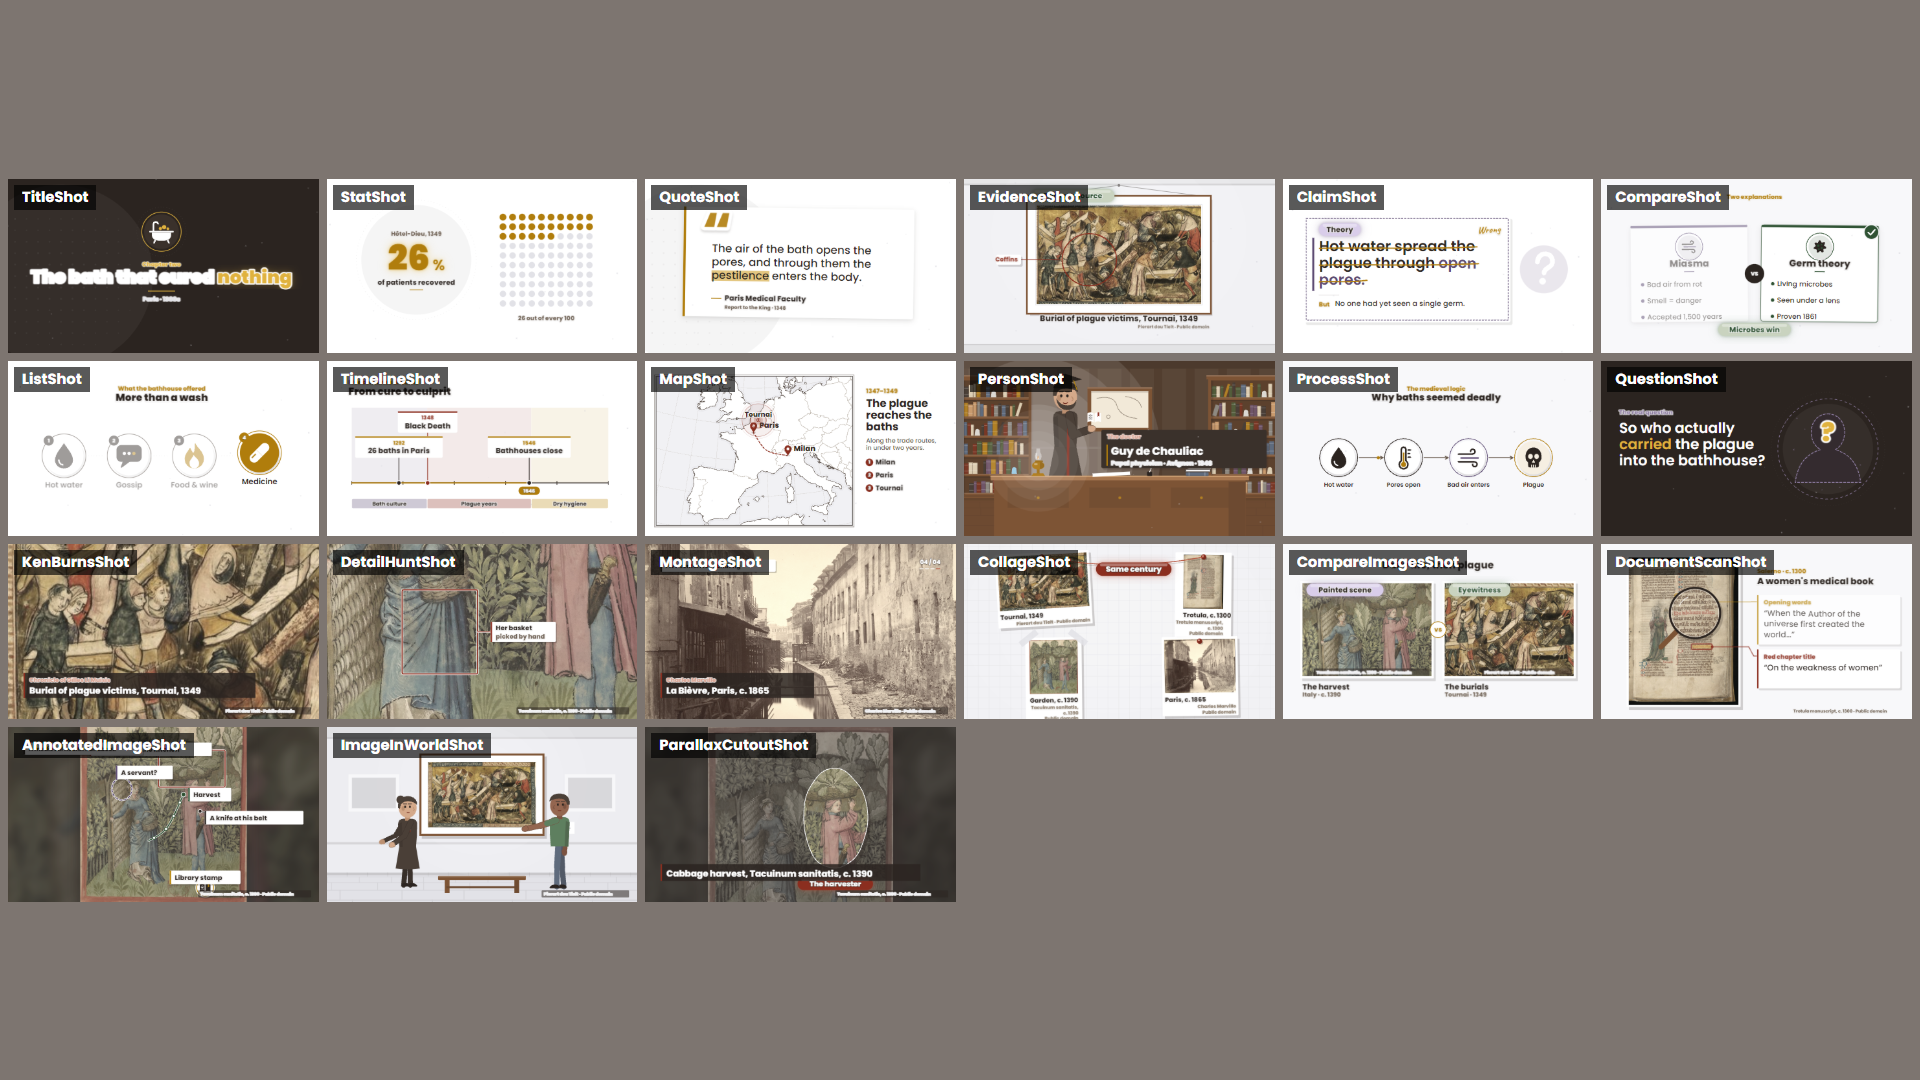
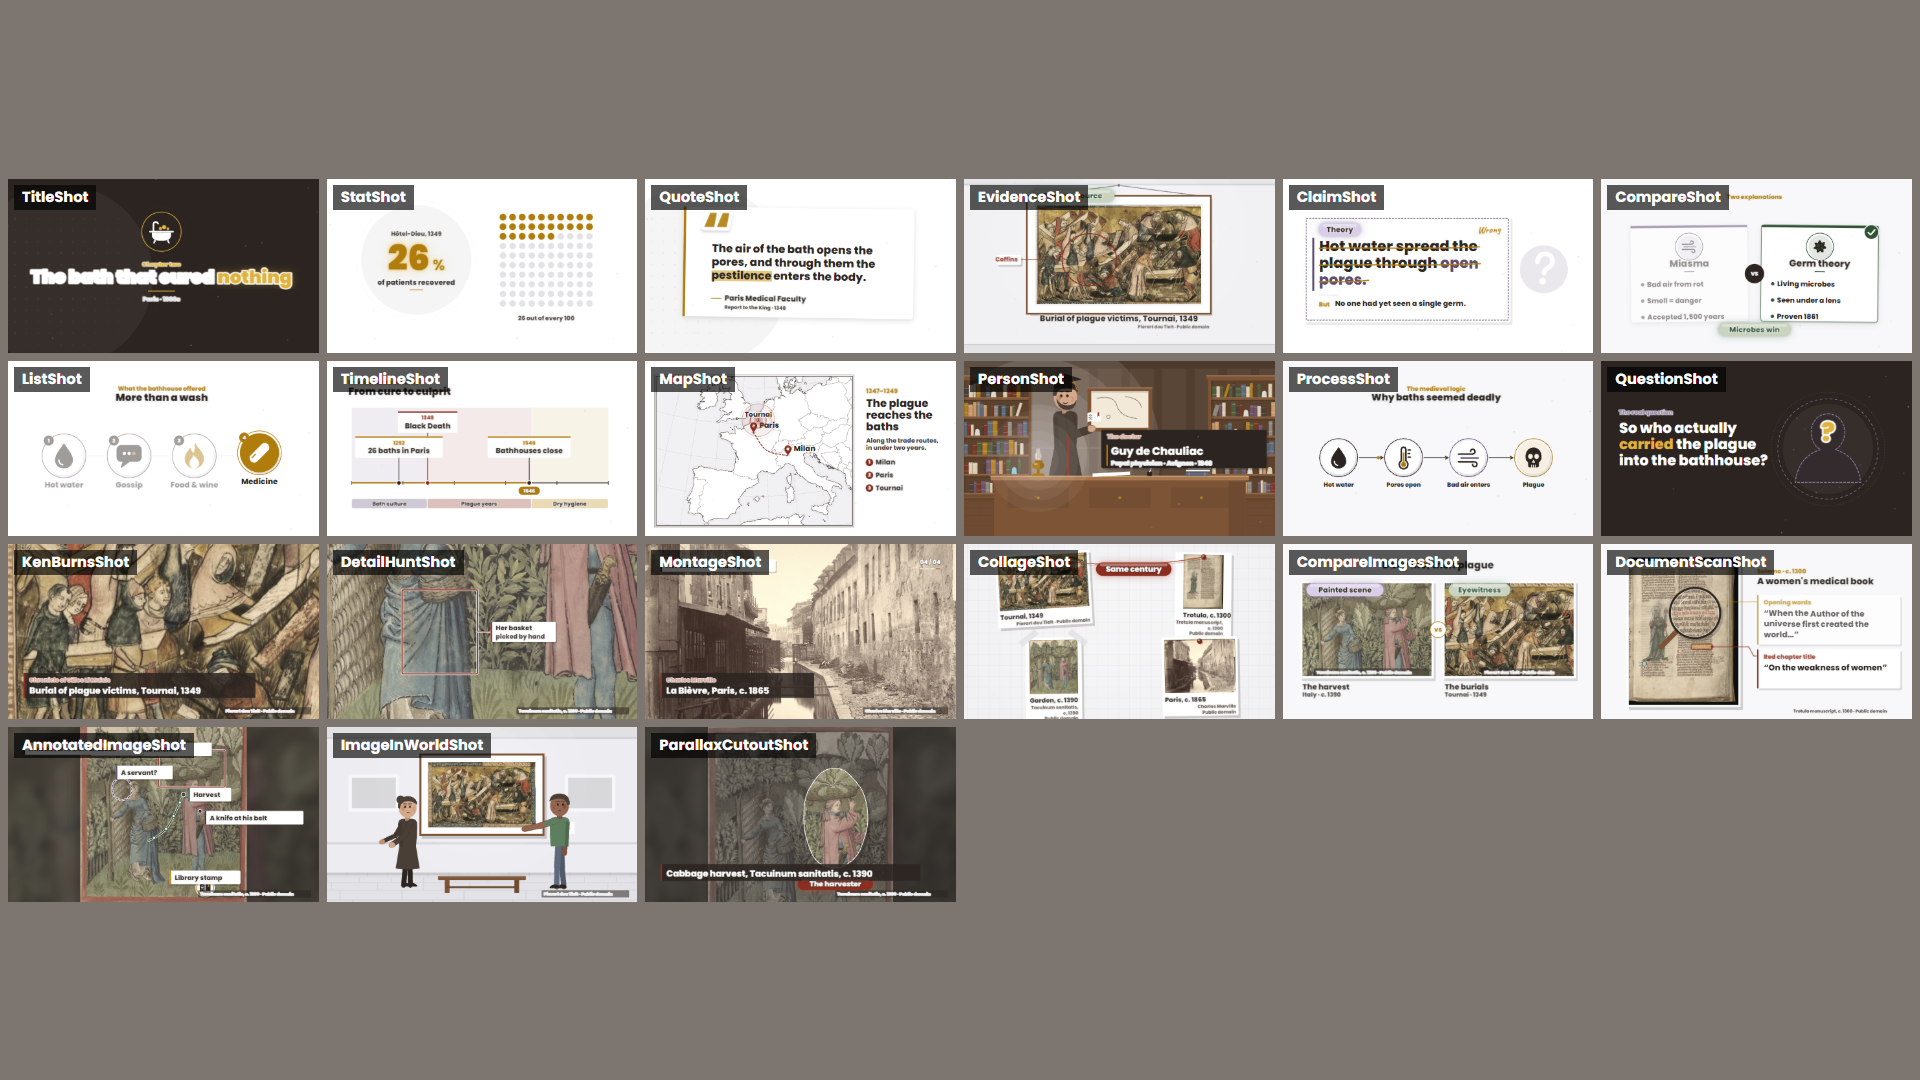
Bold black body text everywhere (foreignObject text 800, darker ink greys), thicker chart/diagram lines

diff --git a/src/kit/templates.tsx b/src/kit/templates.tsx
@@ -79,7 +79,7 @@ export const Backdrop: React.FC<{tone?: Tone; motif?: Motif; seed?: number; t?: 
         {[300, 450, 600, 750].map((r, i) => (
           <circle key={i} cx={cx} cy={600} r={r} stroke={i === 1 ? P.line : P.motif} strokeWidth={i === 1 ? 2 : 26} opacity={i === 1 ? 0.45 : 1} />
         ))}
-        <circle cx={cx} cy={600} r={530} stroke={P.line} strokeWidth={3} strokeDasharray="4 22" strokeLinecap="round" opacity={0.6} transform={`rotate(${t * 2.5 * s} ${cx} 600)`} />
+        <circle cx={cx} cy={600} r={530} stroke={P.line} strokeWidth={5} strokeDasharray="4 22" strokeLinecap="round" opacity={0.6} transform={`rotate(${t * 2.5 * s} ${cx} 600)`} />
       </g>
     );
   if (m === 'band') {
@@ -88,14 +88,14 @@ export const Backdrop: React.FC<{tone?: Tone; motif?: Motif; seed?: number; t?: 
     return (
       <g>
         <path d={`M${x0} -200 L${x0 + w} -200 L${x0 + w - 640 * s} 1300 L${x0 - 640 * s} 1300 Z`} fill={P.motif} />
-        <path d={`M${x0 + w + 60 * s} -200 L${x0 + w + 60 * s - 640 * s} 1300`} stroke={P.line} strokeWidth={3} opacity={0.5} />
+        <path d={`M${x0 + w + 60 * s} -200 L${x0 + w + 60 * s - 640 * s} 1300`} stroke={P.line} strokeWidth={5} opacity={0.5} />
       </g>
     );
   }
   if (m === 'frame')
     return (
       <g fill="none" stroke={P.line}>
-        <rect x={52} y={52} width={1816} height={976} strokeWidth={2} opacity={0.55} />
+        <rect x={52} y={52} width={1816} height={976} strokeWidth={4} opacity={0.55} />
         <rect x={64} y={64} width={1792} height={952} strokeWidth={1.5} opacity={0.3} />
         {[
           [52, 52],
@@ -544,8 +544,8 @@ export const QuoteShot: React.FC<
           <g transform={`translate(0 ${(1 - ease.outQuint(ramp(t, t0 - 0.3, t0 + 0.6))) * 60})`}>
             <rect x={400 + 16} y={120 + 20} width={1120} height={900} rx={6} fill={C.ink} opacity={0.16} />
             <path d="M400 128 Q680 112 960 124 Q1240 134 1520 118 L1516 1020 Q1240 1032 960 1018 Q680 1006 404 1024 Z" fill={C.bone} />
-            <rect x={436} y={156} width={1048} height={840} fill="none" stroke={C.boneShade} strokeWidth={3} rx={4} />
-            <line x1={520} x2={520} y1={160} y2={990} stroke={C.oxTint} strokeWidth={3} opacity={0.8} />
+            <rect x={436} y={156} width={1048} height={840} fill="none" stroke={C.boneShade} strokeWidth={5} rx={4} />
+            <line x1={520} x2={520} y1={160} y2={990} stroke={C.oxTint} strokeWidth={5} opacity={0.8} />
             {docTitle && (
               <text x={960} y={236} textAnchor="middle" fontFamily={FONT_SANS} fontWeight={700} fontSize={30} letterSpacing={4} fill={C.inkMute}>
                 {docTitle}
@@ -674,7 +674,7 @@ export const EvidenceShot: React.FC<
           <rect x={-300} y={1010} width={2520} height={400} fill={mixHex(wall, C.ink, P.dark ? 0.3 : 0.07)} />
           <rect x={-300} y={1004} width={2520} height={8} fill={mixHex(wall, C.ink, P.dark ? 0.45 : 0.16)} />
           <LightPool x={px} y={py - 120} r={760} sy={0.85} strength={P.dark ? 1.6 : 1.1} />
-          <path d={`M${px} 54 L${fl + 80} ${ft + 4} M${px} 54 L${fr - 80} ${ft + 4}`} stroke={mixHex(wall, C.ink, 0.5)} strokeWidth={3} fill="none" opacity={ramp(t, t0 - 0.3, t0 + 0.2)} />
+          <path d={`M${px} 54 L${fl + 80} ${ft + 4} M${px} 54 L${fr - 80} ${ft + 4}`} stroke={mixHex(wall, C.ink, 0.5)} strokeWidth={5} fill="none" opacity={ramp(t, t0 - 0.3, t0 + 0.2)} />
           <circle cx={px} cy={54} r={8} fill={mixHex(wall, C.ink, 0.55)} />
         </g>
       }
@@ -748,7 +748,7 @@ export const ClaimShot: React.FC<
         {dashed ? (
           <DashedOutline d={`M${fr.x + 14} ${fr.y + 14} H${fr.x + fr.w - 14} V${fr.y + fr.h - 14} H${fr.x + 14} Z`} p={1} color={col} width={4} />
         ) : (
-          <rect x={fr.x + 14} y={fr.y + 14} width={fr.w - 28} height={fr.h - 28} rx={6} fill="none" stroke={col} strokeWidth={3} opacity={0.55} />
+          <rect x={fr.x + 14} y={fr.y + 14} width={fr.w - 28} height={fr.h - 28} rx={6} fill="none" stroke={col} strokeWidth={5} opacity={0.55} />
         )}
       </g>
       <rect x={x0 - 40} y={top} width={12} height={ruleH} fill={col} rx={2} />
@@ -974,7 +974,7 @@ export const ListShot: React.FC<
     <ShotShell t={t} a={a} b={b} tone={tone} seed={seed} motif={motif ?? 'none'}>
       {head && <Heading x={960} y={190} kicker={kicker} title={title} p={ramp(t, a, t0 + 0.4)} P={P} anchor="middle" size={60} />}
       {items.slice(1).map((_, i) => (
-        <line key={i} x1={xAt(i) + r + 30} x2={xAt(i + 1) - r - 30} y1={cy} y2={cy} stroke={P.line} strokeWidth={3} strokeDasharray="2 14" strokeLinecap="round" opacity={tp(i + 1)} />
+        <line key={i} x1={xAt(i) + r + 30} x2={xAt(i + 1) - r - 30} y1={cy} y2={cy} stroke={P.line} strokeWidth={5} strokeDasharray="2 14" strokeLinecap="round" opacity={tp(i + 1)} />
       ))}
       {items.map((it, i) => {
         const p = tp(i);
@@ -1426,7 +1426,7 @@ export const QuestionShot: React.FC<
       <g transform={`translate(${slotX} 540)`}>
         <circle r={270 * ease.outBack(ringP)} fill={P.motif} />
         <circle r={300} fill="none" stroke={plum} strokeWidth={4} strokeDasharray="14 16" strokeLinecap="round" opacity={ringP * 0.8} transform={`rotate(${t * 6})`} />
-        <circle r={340} fill="none" stroke={P.line} strokeWidth={2} strokeDasharray="2 14" strokeLinecap="round" opacity={ringP} transform={`rotate(${-t * 3})`} />
+        <circle r={340} fill="none" stroke={P.line} strokeWidth={4} strokeDasharray="2 14" strokeLinecap="round" opacity={ringP} transform={`rotate(${-t * 3})`} />
         <Particles t={t} x={-300} y={-300} w={600} h={600} n={14} seed={seed + 4} size={[2, 5]} color={plum} opacity={[0.2, 0.55]} vy={-12} vx={2} />
         {children ? (
           <g opacity={ease.out(ramp(t, tm, tm + 0.6))}>{children}</g>

diff --git a/src/kit/data.tsx b/src/kit/data.tsx
@@ -128,7 +128,7 @@ export const BarChart: React.FC<{
     <g>
       {grid &&
         [1 / 3, 2 / 3, 1].map((f) => (
-          <line key={f} x1={x} x2={x + w * axisK} y1={yB - (yB - yT) * f} y2={yB - (yB - yT) * f} stroke={C.paperShade} strokeWidth={3} strokeDasharray="2 10" strokeLinecap="round" />
+          <line key={f} x1={x} x2={x + w * axisK} y1={yB - (yB - yT) * f} y2={yB - (yB - yT) * f} stroke={C.paperShade} strokeWidth={5} strokeDasharray="2 10" strokeLinecap="round" />
         ))}
       {bars.map((b, i) => {
         const bp = seg(rl(p, 0.1, 1), i, n, 0.45);
@@ -294,7 +294,7 @@ export const Comparison: React.FC<{
   gap?: number;
   valueSize?: number;
   bodySize?: number;
-}> = ({x, y, w, h, left, right, p, vs = 'vs', gap = 36, valueSize, bodySize = 40}) => {
+}> = ({x, y, w, h, left, right, p, vs = 'vs', gap = 36, valueSize, bodySize = 36}) => {
   if (vs === 'vs') vs = word('vs');
   if (p <= 0) return null;
   const pw = (w - gap) / 2;
@@ -525,7 +525,7 @@ export const LineChart: React.FC<{
       </clipPath>
       {yt.map((v) => (
         <g key={v} opacity={axisK}>
-          <line x1={x} x2={x + w} y1={Y(v)} y2={Y(v)} stroke={C.paperShade} strokeWidth={3} />
+          <line x1={x} x2={x + w} y1={Y(v)} y2={Y(v)} stroke={C.paperShade} strokeWidth={5} />
           <Lbl x={x - 18} y={Y(v) + 7} text={fmtY(v)} anchor="end" />
         </g>
       ))}
@@ -537,10 +537,10 @@ export const LineChart: React.FC<{
         <path d={line} fill="none" stroke={color} strokeWidth={6} strokeLinejoin="round" strokeLinecap="round" />
       </g>
       <path d={`M${x} ${y - 10} V${y + h} H${x + w * axisK}`} fill="none" stroke={C.ink} strokeWidth={4} strokeLinecap="round" strokeLinejoin="round" />
-      {lead && <circle cx={lead[0]} cy={lead[1]} r={8} fill={color} stroke={C.paperLight} strokeWidth={3} />}
+      {lead && <circle cx={lead[0]} cy={lead[1]} r={8} fill={color} stroke={C.paperLight} strokeWidth={5} />}
       {hi && hp > 0 && (
         <g>
-          <line x1={pts[hi.index][0]} x2={pts[hi.index][0]} y1={pts[hi.index][1]} y2={y + h} stroke={color} strokeWidth={3} strokeDasharray="4 8" strokeLinecap="round" opacity={hp} />
+          <line x1={pts[hi.index][0]} x2={pts[hi.index][0]} y1={pts[hi.index][1]} y2={y + h} stroke={color} strokeWidth={5} strokeDasharray="4 8" strokeLinecap="round" opacity={hp} />
           <circle cx={pts[hi.index][0]} cy={pts[hi.index][1]} r={12 * ease.outBack(hp)} fill={color} stroke={C.paperLight} strokeWidth={4} />
           <Num x={pts[hi.index][0]} y={pts[hi.index][1] - 28} text={hi.label ?? fmtY(points[hi.index][1])} size={40} color={color} o={hp} />
         </g>
@@ -591,10 +591,10 @@ export const Meter: React.FC<{
       </g>
       {zones &&
         zones.slice(1).map((_, i) => (
-          <line key={i} x1={x + (w * (i + 1)) / zones.length} x2={x + (w * (i + 1)) / zones.length} y1={y - thick / 2} y2={y + thick / 2} stroke={C.paper} strokeWidth={3} />
+          <line key={i} x1={x + (w * (i + 1)) / zones.length} x2={x + (w * (i + 1)) / zones.length} y1={y - thick / 2} y2={y + thick / 2} stroke={C.paper} strokeWidth={5} />
         ))}
       <g opacity={rl(p, 0.15, 0.3)}>
-        <path d={`M${vx} ${y - thick / 2 - 4} l-11 -16 h22Z`} fill={C.ink} stroke={C.ink} strokeWidth={3} strokeLinejoin="round" />
+        <path d={`M${vx} ${y - thick / 2 - 4} l-11 -16 h22Z`} fill={C.ink} stroke={C.ink} strokeWidth={5} strokeLinejoin="round" />
         {valueLabel && <Lbl x={vx} y={y - thick / 2 - 34} text={valueLabel} color={C.ink} o={rl(p, 0.75, 1)} />}
       </g>
       {title && <Lbl x={x} y={y - thick / 2 - 84} text={title} anchor="start" color={C.inkMute} />}
@@ -641,10 +641,10 @@ export const Gauge: React.FC<{
         const a = ((180 + i * 18) * Math.PI) / 180;
         const r0 = r - th / 2 - 10;
         const r1 = r0 - (i % 5 === 0 ? 18 : 10);
-        return <line key={i} x1={x + Math.cos(a) * r0} y1={y + Math.sin(a) * r0} x2={x + Math.cos(a) * r1} y2={y + Math.sin(a) * r1} stroke={C.inkFaint} strokeWidth={3} strokeLinecap="round" />;
+        return <line key={i} x1={x + Math.cos(a) * r0} y1={y + Math.sin(a) * r0} x2={x + Math.cos(a) * r1} y2={y + Math.sin(a) * r1} stroke={C.inkFaint} strokeWidth={5} strokeLinecap="round" />;
       })}
       <g transform={`translate(${x} ${y}) rotate(${ang})`}>
-        <path d={`M0 -7 L${nl} 0 L0 7Z`} fill={C.ink} stroke={C.ink} strokeWidth={3} strokeLinejoin="round" />
+        <path d={`M0 -7 L${nl} 0 L0 7Z`} fill={C.ink} stroke={C.ink} strokeWidth={5} strokeLinejoin="round" />
       </g>
       <circle cx={x} cy={y} r={14} fill={C.ink} />
       <circle cx={x} cy={y} r={5} fill={color} />
@@ -758,7 +758,7 @@ export const CounterRow: React.FC<{
         const cx = x + slot * (i + 0.5);
         return (
           <g key={i} opacity={ease.out(clamp01(ip * 3))}>
-            {i > 0 && <line x1={x + slot * i} x2={x + slot * i} y1={y - size * 0.75} y2={y + 44} stroke={C.paperDeep} strokeWidth={3} />}
+            {i > 0 && <line x1={x + slot * i} x2={x + slot * i} y1={y - size * 0.75} y2={y + 44} stroke={C.paperDeep} strokeWidth={5} />}
             <Num x={cx} y={y} text={it.count === false ? it.value : countUp(it.value, ease.outQuint(ip))} size={size} color={it.color ?? C.ink} />
             <Lbl x={cx} y={y + 42} text={it.label} o={rl(ip, 0.3, 1)} />
           </g>

diff --git a/src/kit/diagrams.tsx b/src/kit/diagrams.tsx
@@ -233,7 +233,7 @@ export const Callout: React.FC<{target: Pt; label: Pt; text: string; p: number; 
   const d = `M${target.x} ${target.y} L${elbow.x} ${elbow.y} L${label.x} ${label.y}`;
   return (
     <g>
-      <circle cx={target.x} cy={target.y} r={8 * ease.outBack(clamp01(p * 3))} fill={col} stroke={C.paperLight} strokeWidth={3} />
+      <circle cx={target.x} cy={target.y} r={8 * ease.outBack(clamp01(p * 3))} fill={col} stroke={C.paperLight} strokeWidth={5} />
       <path d={d} stroke={col} strokeWidth={3.5} fill="none" pathLength={1} strokeDasharray="1 1" strokeDashoffset={1 - k} />
       <text x={label.x + (an === 'start' ? 10 : -10)} y={label.y + size * 0.35} textAnchor={an} fontFamily={FONT_SANS} fontWeight={700} fontSize={size} letterSpacing={size * 0.05} fill={col} opacity={ramp(p, 0.5, 1)}>
         {text}

diff --git a/src/kit/stage.tsx b/src/kit/stage.tsx
@@ -49,6 +49,7 @@ const EN_CSS = `text, tspan, foreignObject * { font-style: normal !important; le
  * depth. Text that already styles itself (own stroke or filter: PopText, glow words, stickers) is left alone.
  */
 const POP_CSS = `
+foreignObject div, foreignObject span, foreignObject p { font-weight: 800 !important; } /* body text bold too (RichText/Para) */
 text:not([font-weight="900"]):not([font-family*="Caveat"]) { font-weight: 800 !important; }
 text:not([stroke]):not([filter]) { paint-order: stroke fill; stroke: #FFFFFF; stroke-width: 0.13em; stroke-linejoin: round;
   filter: drop-shadow(0 0.04em 0.02em rgba(43, 36, 32, 0.18)); }

diff --git a/src/kit/theme.ts b/src/kit/theme.ts
@@ -18,10 +18,10 @@ export const C = {
   paperDark: '#C8C8CF',
 
   // ---- ink family
-  inkSoft: '#3A312B',
+  inkSoft: '#2B2420', // owner 2026-10-21: body text bold and BLACK, not washed-out grey
   inkLift: '#4A3F37',
-  inkMute: '#6B5D50',
-  inkFaint: '#8E8070',
+  inkMute: '#4A423C',
+  inkFaint: '#6E655E',
 
   // ---- signal family (oxblood)
   oxLight: '#B5553F',

diff --git a/docs/PLAYBOOK.md b/docs/PLAYBOOK.md
@@ -62,7 +62,8 @@ This overrides the "documentary" wording in `brand/` (music included: cinematic 
   frame in close shots; wide shots only to establish a place. Generated art is checked on the --phone sheet too.
 - Typography (owner 2026-10-21): **Poppins Black** (geometric, bold, clean — picked by the owner from a test page; Arabic = Baloo Bhaijaan 2) for
   headlines/quotes/numbers/pills AND labels/kickers/tags — one font, normal case, normal letter spacing, no italics
-  (the old tracked capitals / Fraunces italics are retired). All text is heavy (800–900) with a clean halo + soft
+  (the old tracked capitals / Fraunces italics are retired). All text, body text included, is heavy (800–900) and dark (ink, never washed-out grey); lines and outlines are thick.
+  All text is heavy (800–900) with a clean halo + soft
   drop (Stage applies it automatically) so it pops on any background; big moments use PopText / glow / stickers. Rare accent only: Caveat
   handwriting (`HandNote`) for a scribbled note on an image/document — never titles or body text. Certainty labels look
   like museum captions (`Tag`, default); myth-busting verdicts use the editor's red pen (strike + handwritten verdict);
